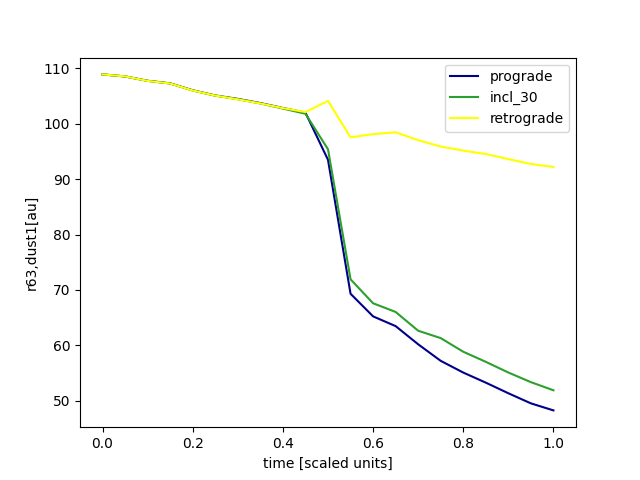
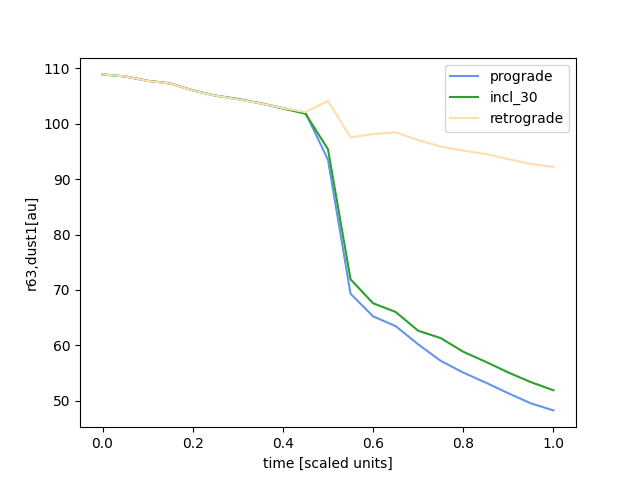
colorfix

diff --git a/paper figures.py b/paper figures.py
@@ -8,7 +8,7 @@ from render import render
 ## Setup constants
 FOLDERS = ['prograde', 'incl_30', 'retrograde']
 PARTICLE_INDICES = [1] # 0 = gas, 1 = dust1, 2 = dust2, 3 = sinks
-COLORS = ['darkblue','tab:green', 'yellow']
+COLORS = ['cornflowerblue','tab:green', 'navajowhite']
 
 
 def processData(sdf, sdf_sinks):
